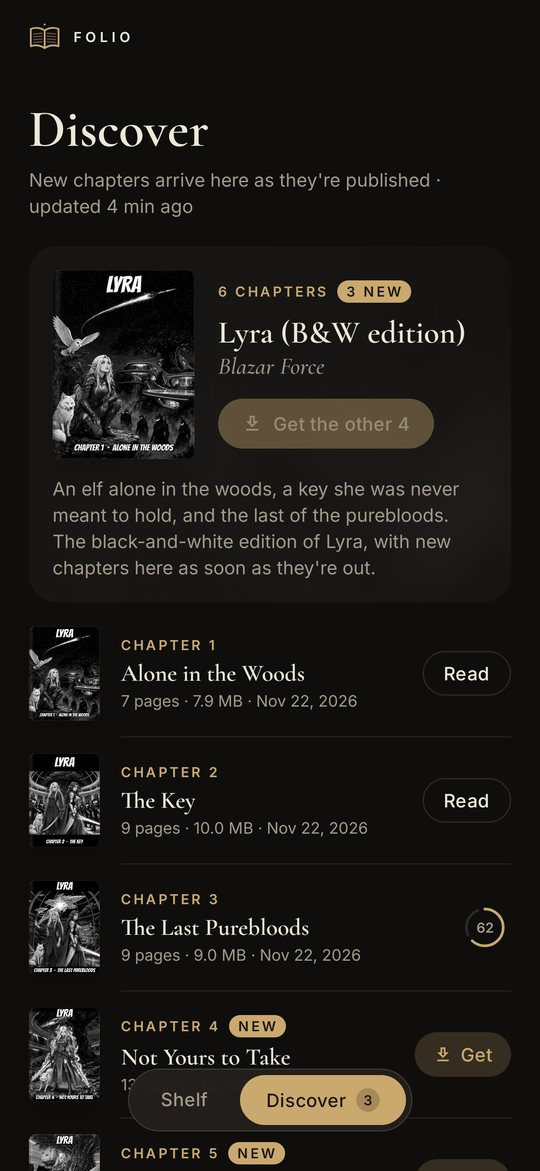
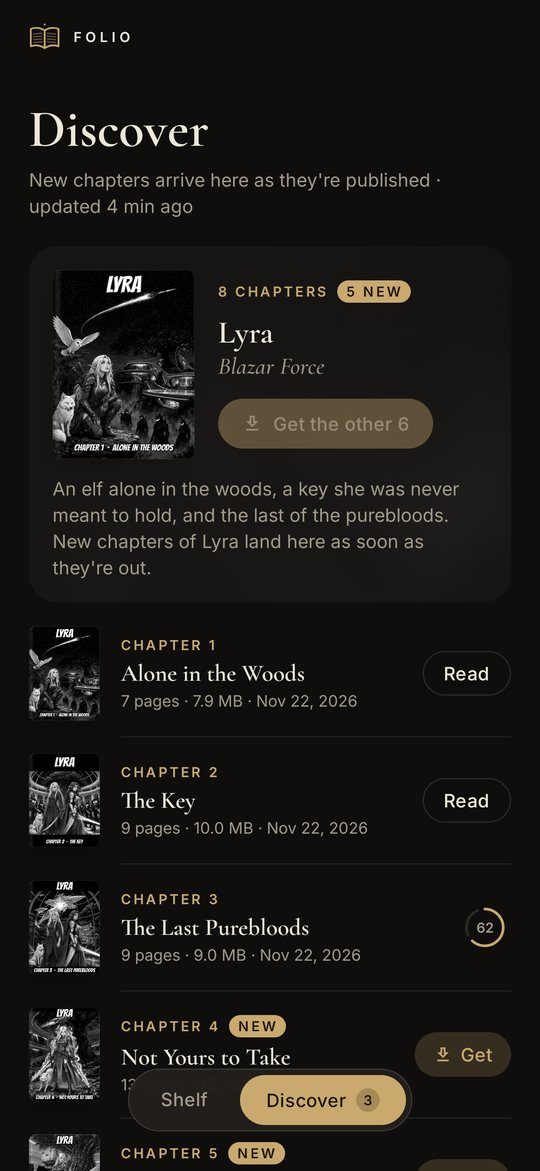
Folio listing: call the comic "Lyra" (drop the B&W edition label) and refresh the Discover screenshots.

diff --git a/docs/js/sealforge-catalog.js b/docs/js/sealforge-catalog.js
@@ -99,7 +99,7 @@ window.SEALFORGE_APPS = [
     size: "1.5 MB",
     updated: "November 22, 2026",
     summary: "A calm, classy comic reader. New chapters arrive in the app as soon as they're published.",
-    notes: "Discover is an online library: pull down to check for new chapters, tap Get, and the chapter lands on your shelf to read offline. Lyra (B&W edition) chapters 1 to 6 are waiting. You can also open your own CBZ and PDF files or a folder of page images. Pinch or double-tap to zoom, two-page spreads in landscape, right-to-left for manga, and a warm night filter. No account and no wallet. Install over Folio 1.0 to keep your shelf.",
+    notes: "Discover is an online library: pull down to check for new chapters, tap Get, and the chapter lands on your shelf to read offline. The Lyra comic is waiting, chapters 1 to 8. You can also open your own CBZ and PDF files or a folder of page images. Pinch or double-tap to zoom, two-page spreads in landscape, right-to-left for manga, and a warm night filter. No account and no wallet. Install over Folio 1.0 to keep your shelf.",
     shots: ["folio/shot-1-discover.jpg", "folio/shot-2-chapters.jpg", "folio/shot-3-shelf.jpg", "folio/shot-4-reader.jpg"],
[1 lines of base64/hex data omitted]
   }

diff --git a/docs/blazar-apps.html b/docs/blazar-apps.html
@@ -130,7 +130,7 @@
       if (space && imgs.blazar) space.style.backgroundImage = "linear-gradient(180deg, rgba(3,7,18,.2), rgba(3,7,18,.78)), url(" + imgs.blazar + ")";
     })();
   </script>
-  <script src="js/sealforge-catalog.js?v=store24"></script>
-  <script src="js/sealforge.js?v=store24"></script>
+  <script src="js/sealforge-catalog.js?v=store25"></script>
+  <script src="js/sealforge.js?v=store25"></script>
 </body>
 </html>
